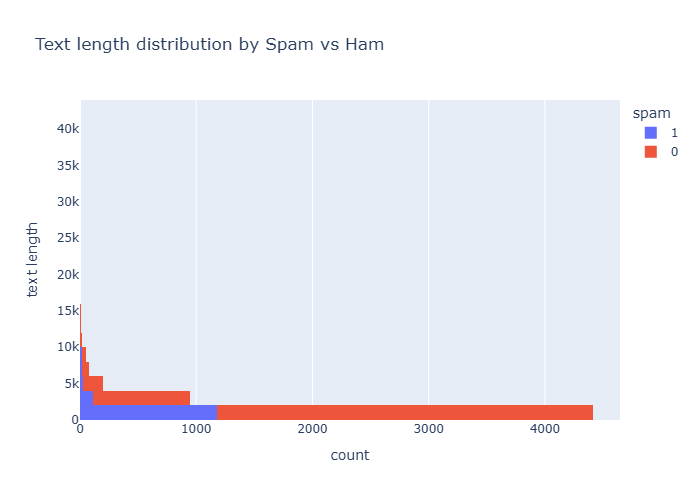
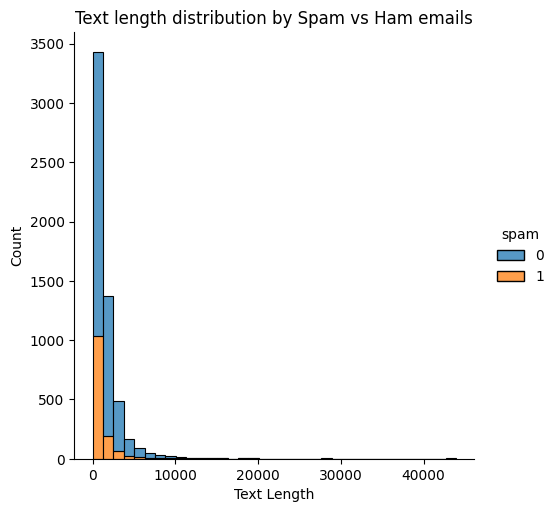
Update on more visualization and replaced with seaborn

diff --git a/data_processing.py b/data_processing.py
@@ -1,8 +1,9 @@
 import pandas as pd
 import numpy as np
-import plotly.express as pex
-import plotly.io
-import os, sys, re
+import seaborn as sns
+from wordcloud import WordCloud
+import matplotlib.pyplot as plt
+import sys
 
 def load_data(filename):
     """
@@ -50,18 +51,23 @@ def generate_feature_plot(email_df):
         email_df (pandas DataFrame): DataFrame containing information from CSV file.
     """
     # Generate plot for distribution of spam vs ham in the dataset 
-    spam_counts = email_df['spam'].value_counts()
-    spam_distribution = pex.bar(spam_counts, x=spam_counts.index, y=spam_counts.values, labels={'x': 'Spam', 'y': 'Count'}, title='Distribution of Spam vs Ham emails')
-    plotly.io.write_image(spam_distribution, sys.path[0] + "/plots/spam_distribution.png")
+    spam_distribution = sns.displot(email_df, x='spam', discrete=True, shrink=0.8).set_xlabels('Spam').set(title='Distribution of Spam vs Ham emails')
+    spam_distribution.savefig(sys.path[0] + "/plots/spam_distribution.png")
 
     # Generate plot for text length distribution of spam vs ham in the dataset 
     email_df['text length'] = email_df['text'].apply(len) # Add a new data column categorizing the length of each email
-    email_length = pex.histogram(email_df, y='text length', color='spam', nbins=35, title='Text length distribution by Spam vs Ham')
-    plotly.io.write_image(email_length, sys.path[0] + "/plots/email_length.png")
+    email_length = sns.displot(email_df, x='text length', multiple="stack", hue="spam", bins=35).set_xlabels('Text Length').set(title='Text length distribution by Spam vs Ham emails')
+    email_length.savefig(sys.path[0] + "/plots/email_length.png")
 
     # Generate a word cloud for non spam emails
+    ham_text = " ".join(email for email in email_df[email_df['spam'] == 0]['text']) # Add all the text in the dataset that isn't spam to a long string
+    ham_wordcloud = WordCloud(width=500, height=500, max_font_size=75, max_words=150, background_color="white").generate(ham_text)
+    ham_wordcloud.to_file(sys.path[0] + "/plots/ham_wordcloud.png")
 
     # Generate a word cloud for spam emails
+    spam_text = " ".join(email for email in email_df[email_df['spam'] == 1]['text'])
+    spam_wordcloud = WordCloud(width=500, height=500, max_font_size=75, max_words=150, background_color="white").generate(spam_text)
+    spam_wordcloud.to_file(sys.path[0] + "/plots/spam_wordcloud.png")
 
     # Generate a histogram of keyword frequencies
 
@@ -73,4 +79,4 @@ if __name__ == "__main__":
     data_clean_up(email_dfs)
     data_preprocessing(email_dfs)
     # Generate plot
-    # generate_feature_plot(email_dfs)
+    generate_feature_plot(email_dfs)
